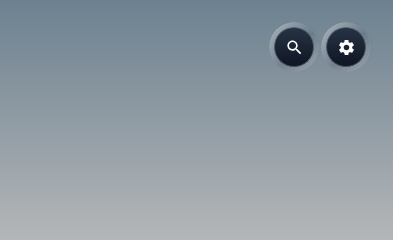
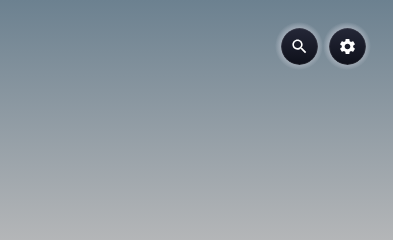
Match home action recesses to reference

Changed region(s): [[0.6718, 0.0875, 0.9466, 0.2917], [0.855, 0.2625, 0.916, 0.2917]]

diff --git a/app/src/main/kotlin/com/starception/submission/ui/AppTopSearchBar.kt b/app/src/main/kotlin/com/starception/submission/ui/AppTopSearchBar.kt
@@ -65,9 +65,11 @@ import androidx.compose.foundation.layout.Row
 import androidx.compose.foundation.layout.Arrangement
 import androidx.compose.foundation.layout.fillMaxSize
 import androidx.compose.foundation.layout.fillMaxWidth
+import androidx.compose.foundation.layout.height
 import androidx.compose.foundation.layout.padding
 import androidx.compose.foundation.layout.size
 import androidx.compose.foundation.layout.statusBarsPadding
+import androidx.compose.foundation.layout.width
 import androidx.compose.foundation.shape.CircleShape
 import androidx.compose.foundation.shape.RoundedCornerShape
 import androidx.compose.material.icons.Icons
@@ -95,6 +97,7 @@ import androidx.compose.ui.geometry.Offset
 import androidx.compose.ui.geometry.Rect
 import androidx.compose.ui.geometry.RoundRect
 import androidx.compose.ui.draw.clip
+import androidx.compose.ui.draw.drawBehind
 import androidx.compose.ui.draw.shadow
 import androidx.compose.ui.graphics.Brush
 import androidx.compose.ui.graphics.Path
@@ -891,19 +894,11 @@ fun AppTopSearchBar(
                         .clickable { currentOnProfileClick() }
                         .semantics { contentDescription = "Open profile" },
                 )
-                Row(
-                    horizontalArrangement = Arrangement.spacedBy(2.dp),
-                    verticalAlignment = Alignment.CenterVertically,
-                ) {
-                    HomeHeaderDepthAction("Search", isDarkTheme, { searchViewHolder.value?.show() }) {
-                        Icon(Icons.Default.Search, contentDescription = null,
-                            tint = ComposeColor.White, modifier = Modifier.size(19.dp))
-                    }
-                    HomeHeaderDepthAction("Settings", isDarkTheme, onSettingsClick) {
-                        Icon(Icons.Default.Settings, contentDescription = null,
-                            tint = ComposeColor.White, modifier = Modifier.size(19.dp))
-                    }
-                }
+                HomeHeaderDepthActions(
+                    isDarkTheme = isDarkTheme,
+                    onSearchClick = { searchViewHolder.value?.show() },
+                    onSettingsClick = onSettingsClick,
+                )
             }
         }
         // Voice wave overlay: the animated visualization that fills the SearchBar
@@ -992,37 +987,64 @@ fun AppTopSearchBar(
     }
 }
 
-/** A raised dark action set into a soft circular recess, with a full-size touch target. */
+/** Two compact dark actions share one soft, sculpted recess. */
 @Composable
-internal fun HomeHeaderDepthAction(
-    label: String,
+internal fun HomeHeaderDepthActions(
     isDarkTheme: Boolean,
+    onSearchClick: () -> Unit,
+    onSettingsClick: () -> Unit,
+) {
+    Box(
+        modifier = Modifier.width(96.dp).height(48.dp).drawBehind {
+            val radius = 24.dp.toPx()
+            val leftCenter = Offset(radius, radius)
+            val rightCenter = Offset(size.width - radius, radius)
+            fun recess(center: Offset) = Brush.radialGradient(
+                0f to ComposeColor(0xFFE4E4EB).copy(alpha = if (isDarkTheme) .26f else .56f),
+                .72f to ComposeColor(0xFFD9DBE5).copy(alpha = if (isDarkTheme) .24f else .48f),
+                1f to ComposeColor.Transparent,
+                center = center,
+                radius = radius,
+            )
+            drawCircle(recess(leftCenter), radius = radius, center = leftCenter)
+            drawCircle(recess(rightCenter), radius = radius, center = rightCenter)
+        },
+        contentAlignment = Alignment.Center,
+    ) {
+        Row(horizontalArrangement = Arrangement.spacedBy(0.dp)) {
+            HomeHeaderDepthAction("Search", onSearchClick) {
+                Icon(Icons.Default.Search, contentDescription = null,
+                    tint = ComposeColor.White, modifier = Modifier.size(19.dp))
+            }
+            HomeHeaderDepthAction("Settings", onSettingsClick) {
+                Icon(Icons.Default.Settings, contentDescription = null,
+                    tint = ComposeColor.White, modifier = Modifier.size(19.dp))
+            }
+        }
+    }
+}
+
+@Composable
+private fun HomeHeaderDepthAction(
+    label: String,
     onClick: () -> Unit,
     content: @Composable () -> Unit,
 ) {
     Box(
-        modifier = Modifier.size(50.dp)
-            .shadow(3.dp, CircleShape, ambientColor = ComposeColor.Black.copy(alpha = .08f),
-                spotColor = ComposeColor.Black.copy(alpha = .14f))
-            .clip(CircleShape)
-            .background(Brush.linearGradient(
-                0f to ComposeColor.White.copy(alpha = if (isDarkTheme) .18f else .42f),
-                .55f to ComposeColor(0xFF526176).copy(alpha = .22f),
-                1f to ComposeColor.White.copy(alpha = if (isDarkTheme) .10f else .24f),
-            ))
+        modifier = Modifier.size(48.dp)
             .semantics { contentDescription = label }
             .clickable(onClick = onClick),
         contentAlignment = Alignment.Center,
     ) {
         Box(
-            modifier = Modifier.size(40.dp)
-                .shadow(5.dp, CircleShape, ambientColor = ComposeColor.Black.copy(alpha = .18f),
-                    spotColor = ComposeColor.Black.copy(alpha = .26f))
+            modifier = Modifier.size(37.dp)
+                .shadow(3.dp, CircleShape, ambientColor = ComposeColor.Black.copy(alpha = .12f),
+                    spotColor = ComposeColor.Black.copy(alpha = .20f))
                 .clip(CircleShape)
                 .background(Brush.verticalGradient(listOf(
-                    ComposeColor(0xFF273445), ComposeColor(0xFF0E1522),
+                    ComposeColor(0xFF242737), ComposeColor(0xFF0E101A),
                 )))
-                .border(1.dp, ComposeColor.White.copy(alpha = .24f), CircleShape),
+                .border(.5.dp, ComposeColor.White.copy(alpha = .10f), CircleShape),
             contentAlignment = Alignment.Center,
         ) {
             content()

diff --git a/app/src/testDemo/kotlin/com/starception/submission/ui/HomeHeaderDepthActionTest.kt b/app/src/testDemo/kotlin/com/starception/submission/ui/HomeHeaderDepthActionTest.kt
@@ -2,18 +2,10 @@ package com.starception.submission.ui
 
 import android.app.Application
 import androidx.compose.foundation.background
-import androidx.compose.foundation.layout.Arrangement
 import androidx.compose.foundation.layout.Box
-import androidx.compose.foundation.layout.Row
 import androidx.compose.foundation.layout.fillMaxSize
 import androidx.compose.foundation.layout.padding
-import androidx.compose.foundation.layout.size
-import androidx.compose.material.icons.Icons
-import androidx.compose.material.icons.filled.Search
-import androidx.compose.material.icons.filled.Settings
-import androidx.compose.material3.Icon
 import androidx.compose.material3.MaterialTheme
-import androidx.compose.runtime.Composable
 import androidx.compose.ui.Alignment
 import androidx.compose.ui.Modifier
 import androidx.compose.ui.graphics.Brush
@@ -46,18 +38,12 @@ class HomeHeaderDepthActionTest {
                 Box(Modifier.fillMaxSize().background(Brush.verticalGradient(listOf(
                     Color(0xFF6C8190), Color(0xFFB4B6B8),
                 )))) {
-                    Row(
-                        Modifier.align(Alignment.TopEnd).padding(22.dp),
-                        horizontalArrangement = Arrangement.spacedBy(2.dp),
-                    ) {
-                        HeaderButton("Search", { searchClicks++ }) {
-                            Icon(Icons.Default.Search, contentDescription = null,
-                                tint = Color.White, modifier = Modifier.size(19.dp))
-                        }
-                        HeaderButton("Settings", { settingsClicks++ }) {
-                            Icon(Icons.Default.Settings, contentDescription = null,
-                                tint = Color.White, modifier = Modifier.size(19.dp))
-                        }
+                    Box(Modifier.align(Alignment.TopEnd).padding(22.dp)) {
+                        HomeHeaderDepthActions(
+                            isDarkTheme = false,
+                            onSearchClick = { searchClicks++ },
+                            onSettingsClick = { settingsClicks++ },
+                        )
                     }
                 }
             }
@@ -68,9 +54,4 @@ class HomeHeaderDepthActionTest {
         assertEquals(1, searchClicks)
         assertEquals(1, settingsClicks)
     }
-}
-
-@Composable
-private fun HeaderButton(label: String, onClick: () -> Unit, icon: @Composable () -> Unit) {
-    HomeHeaderDepthAction(label, isDarkTheme = false, onClick = onClick, content = icon)
 }
